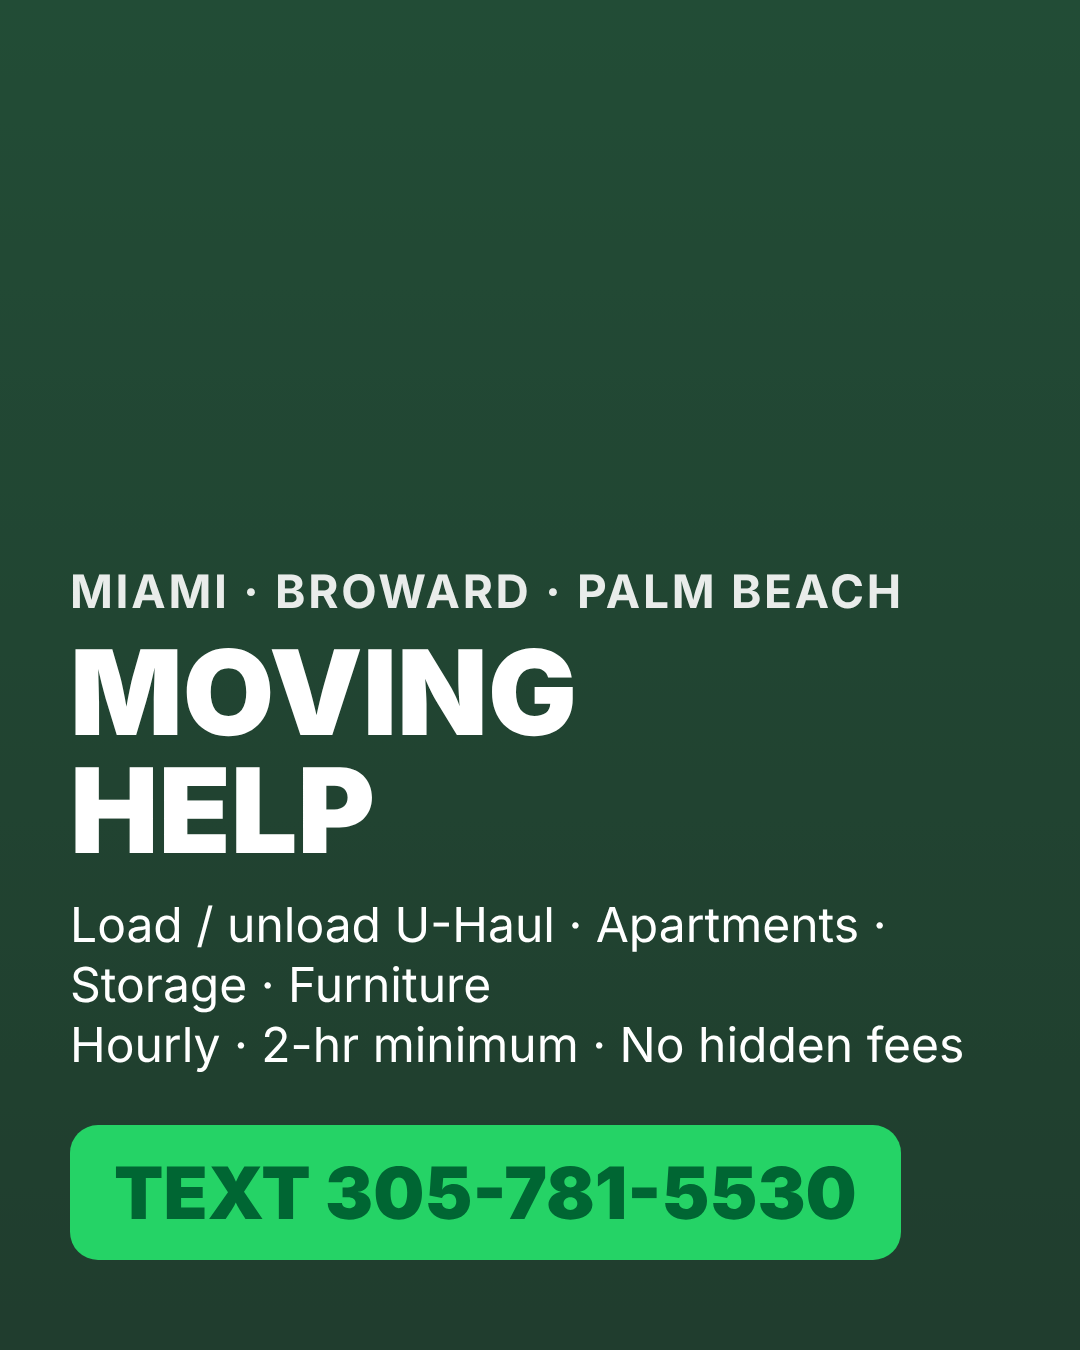
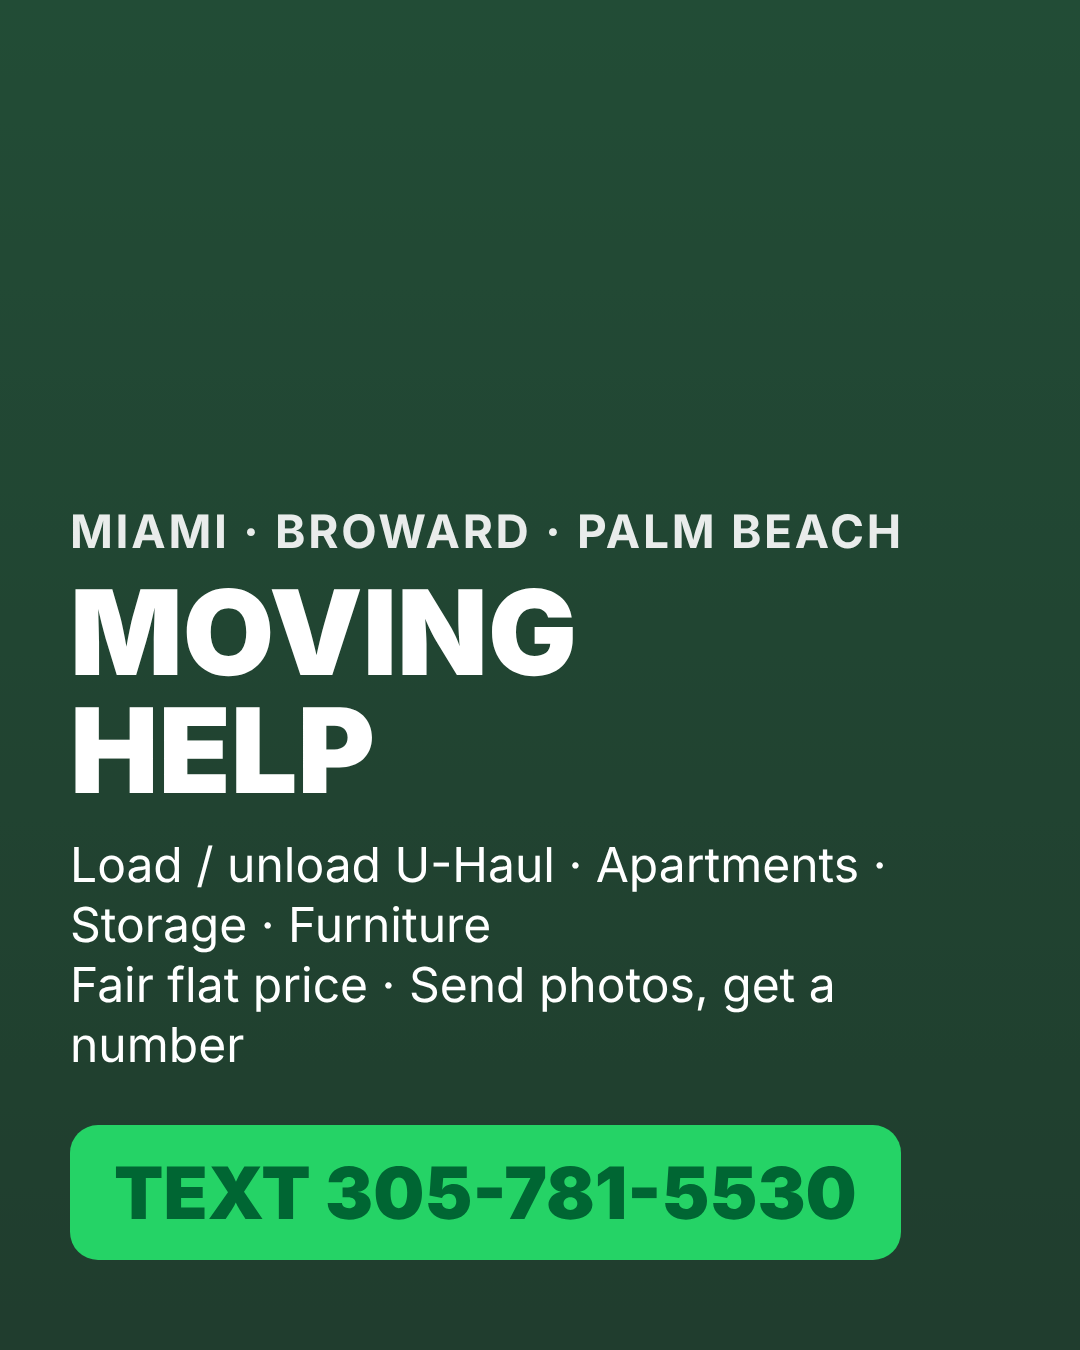
Switch all assets to flat per-job pricing, remove hourly minimums and conditions
Claude-Session: https://claude.ai/code/session_01KZFigDwFsvqjkRiDZJqNYt

Changed region(s): [[0.0611, 0.3733, 0.8861, 0.8089]]

diff --git a/moving-leads/03-landing-page/index.html b/moving-leads/03-landing-page/index.html
@@ -38,7 +38,7 @@
   <header>
     <div class="eyebrow">Miami-Dade · Broward · Palm Beach</div>
     <h1>Moving Help. Text me your date and zip — get a price fast.</h1>
-    <p class="sub">Loading &amp; unloading U-Haul trucks, apartment and house moving labor, storage units, furniture moving. Hourly rate, 2-hour minimum, no hidden fees.</p>
+    <p class="sub">Loading &amp; unloading U-Haul trucks, apartment and house moving labor, storage units, furniture moving. Send a few photos of what needs moving and get a fair, straight price for the whole job.</p>
   </header>
 
   <div class="cta">
@@ -68,7 +68,7 @@
     <h2>How it works</h2>
     <ol class="steps">
       <li><strong>Text or WhatsApp</strong> your zip code, date, and what needs moving (photos help).</li>
-      <li><strong>Get a straight price</strong> — hourly with a 2-hour minimum, nothing hidden.</li>
+      <li><strong>Get a fair price for the whole job</strong> after I see the items — no surprises.</li>
       <li><strong>I show up on time</strong> and treat your things like my own.</li>
     </ol>
   </section>
@@ -76,7 +76,7 @@
   <section class="card">
     <h2>Service area</h2>
     <p>Miami, Hialeah, Miami Beach, Hollywood, Pembroke Pines, Miramar, Fort Lauderdale, Pompano Beach, Boca Raton, Delray Beach, West Palm Beach and nearby.</p>
-    <p class="fine">Labor-only service. You provide the truck or container unless agreed otherwise. Final price confirmed by text before the job.</p>
+    <p class="fine">Labor-only service unless agreed otherwise. Price is agreed by text after I see the items, before the job starts.</p>
   </section>
 
   <footer>Text first for the fastest reply · 305-781-5530</footer>

diff --git a/moving-leads/03-landing-page/ad-image-template.html b/moving-leads/03-landing-page/ad-image-template.html
@@ -17,7 +17,7 @@ body{margin:0;background:#222}
   <div class="txt">
     <div class="k">MIAMI · BROWARD · PALM BEACH</div>
     <div class="h">MOVING<br>HELP</div>
-    <div class="s">Load / unload U-Haul · Apartments · Storage · Furniture<br>Hourly · 2-hr minimum · No hidden fees</div>
+    <div class="s">Load / unload U-Haul · Apartments · Storage · Furniture<br>Fair flat price · Send photos, get a number</div>
     <div class="p">TEXT 305-781-5530</div>
   </div>
 </div>

diff --git a/moving-leads/04-lead-tracker/build_tracker.py b/moving-leads/04-lead-tracker/build_tracker.py
@@ -12,8 +12,8 @@ wb = Workbook()
 # ---------- Leads ----------
 ws = wb.active; ws.title = "Leads"
 cols = ["Lead ID","Date received","Source","Customer name","Phone","Contact via","Service requested",
-        "Pickup location (zip/city)","Drop-off location","Move date","Hours est.","Rate $/hr",
-        "Est. job value $","Qualified? (Y/N)","Quote sent (date)","Status","Booked date",
+        "Pickup location (zip/city)","Drop-off location","Move date","Helpers","Photos received? (Y/N)",
+        "Quoted price $","Qualified? (Y/N)","Quote sent (date)","Status","Booked date",
         "Job done (date)","Revenue $","Review asked?","Referral source","Notes"]
 ws.append(cols)
 hdr = PatternFill("solid", fgColor="0F6B3A")
@@ -24,15 +24,14 @@ widths = [8,13,13,18,14,11,22,18,18,12,9,9,13,11,13,13,12,12,11,11,14,30]
 for i,w in enumerate(widths,1): ws.column_dimensions[get_column_letter(i)].width = w
 # Example row (delete when real leads arrive)
 ws.append(["L001",date(2026,10,17),"Craigslist","EXAMPLE – delete","305-000-0000","SMS","Unload U-Haul",
-           "33020 Hollywood","same",date(2026,10,25),3,95,"=K2*L2","Y",date(2026,10,17),"Quoted","","","","N","",""])
+           "33020 Hollywood","same",date(2026,10,25),1,"Y",150,"Y",date(2026,10,17),"Quoted","","","","N","",""])
 # Validation lists
 src = DataValidation(type="list", formula1='"Craigslist,Facebook group,Facebook ad,Facebook Marketplace,Nextdoor,Google,U-Haul Moving Help,TaskRabbit,Referral,Partner,Repeat,Other"', allow_blank=True)
 via = DataValidation(type="list", formula1='"SMS,WhatsApp,Call,Facebook DM,Email,Other"', allow_blank=True)
 yn = DataValidation(type="list", formula1='"Y,N"', allow_blank=True)
 status = DataValidation(type="list", formula1='"New,Replied,Quoted,Booked,Done,Lost,No response,Spam"', allow_blank=True)
-for dv,col in [(src,"C"),(via,"F"),(yn,"N"),(status,"P"),(yn,"T")]:
+for dv,col in [(src,"C"),(via,"F"),(yn,"L"),(yn,"N"),(status,"P"),(yn,"T")]:
     ws.add_data_validation(dv); dv.add(f"{col}2:{col}1000")
-for r in range(3,1001): ws[f"M{r}"] = f'=IF(AND(K{r}<>"",L{r}<>""),K{r}*L{r},"")'
 
 # ---------- Campaign Log ----------
 cl = wb.create_sheet("Campaign Log")

diff --git a/moving-leads/07-templates/customer-reply-templates.md b/moving-leads/07-templates/customer-reply-templates.md
@@ -4,7 +4,7 @@ Goal: reply within 5 minutes, get to a price in 2 messages, book in 3.
 ## T1 — First reply (new inquiry)
 ```
 Hi! Thanks for texting. Happy to help with your move. Quick questions so I can give you a straight price:
-1) Move date + preferred start time?
+1) Move date + preferred time?
 2) Pickup zip / city (and drop-off if any)?
 3) What's moving? (e.g. 1-BR apartment, 10 big items, storage unit)
 4) Stairs or elevator at each end? Which floor?
@@ -15,10 +15,9 @@ Photos help a lot 👍
 ## T2 — Quote
 ```
 Thanks! Here's the price:
-• [1 helper / 2 helpers] at $[RATE]/hr, 2-hour minimum = $[MIN] for the first 2 hours.
-• Estimated time for your job: about [X] hours → roughly $[EST].
-• Travel: [included / $__ flat] for [city].
-• Payment: cash, Zelle or Cash App when the job is done.
+• Based on your photos: $[PRICE] for the whole job, [1/2] helper(s).
+• That covers everything you listed — [summary]. If anything big is added on the day, we agree on it before I lift it.
+• Payment when the job is done: cash, Zelle or Cash App.
 Does [DATE] at [TIME] work? Reply YES and I'll lock it in.
 ```
 
@@ -36,7 +35,7 @@ Hi [NAME], last check on the [DATE] move. If you've found help already, no probl
 ```
 ✅ Booked: [DATE] at [TIME]
 📍 Address: [ADDRESS] (floor [X], [stairs/elevator])
-👷 [1/2] helper(s), $[RATE]/hr, 2-hr minimum
+👷 [1/2] helper(s), agreed price: $[PRICE] for the job
 💵 Payment at completion: cash / Zelle / Cash App
 I'll text you the day before to confirm. Please have the truck there at [TIME] and boxes packed and taped. Thanks!
 ```
@@ -63,13 +62,13 @@ Thanks for reaching out! That one is outside what I can take on ([reason: distan
 
 ## T10 — Price objection
 ```
-I understand. My rate covers careful handling — wrapping and stacking so nothing breaks. If budget is tight, we can reduce hours: you pack and stage everything by the door, I handle the heavy loading only. That usually cuts the time by about a third.
+I understand — tell me what works for you and let's see if we can meet in the middle. If you pack and stage everything by the door, it's less work and I can come down on the price.
 ```
 
 ## Customer FAQ (answer in your own words)
 - **Do you have a truck?** → Labor only; you rent the truck (U-Haul/Penske) and I load/unload it. [Change only if you confirm you have a truck.]
 - **Are you licensed/insured?** → Answer truthfully. Do not claim either unless you have the documents. If unsure, say: "I'm an independent moving helper; I'm careful and will confirm everything in writing by text."
-- **Minimum?** → 2 hours.
+- **How do you price?** → One fair price for the whole job after I see photos or the items. No hourly clock.
 - **What should I prepare?** → Boxes packed and taped, fragile items labeled, parking for the truck, elevator reserved if needed.
-- **Deposit?** → No deposit; pay on completion (your choice).
-- **Cancellations?** → Free up to 24 h before; same-day cancellation may be charged the 2-hour minimum (your choice).
+- **Deposit?** → No deposit; pay when the job is done.
+- **Cancellations?** → Just let me know as early as you can.

diff --git a/moving-leads/07-templates/pricing-and-quote-checklist.md b/moving-leads/07-templates/pricing-and-quote-checklist.md
@@ -1,16 +1,17 @@
-# Pricing Structure & Pre-Quote Checklist
+# Pricing Reference & Pre-Quote Checklist
+
+**Your rule: one flat price per job, decided after seeing the items. No hourly rate, no minimum, no extra conditions in the ads.** The table below is only a private reference so your flat quotes stay profitable.
 
 ## Suggested pricing (based on researched South Florida rates; adjust to your capacity)
 | Service | Price | Notes |
 |---|---|---|
-| 1 helper, labor only | **$45–$55/hr**, 2-hr min ($90–$110) | TaskRabbit Miami avg is $51/hr; stay near it |
-| 2 helpers, labor only | **$85–$110/hr**, 2-hr min | Market: $70–$120/hr for 2-person crews on U-Haul Moving Help |
-| Travel fee | $0 within 15 mi of base; $20–$40 beyond | State it in the quote, not after |
-| Stairs (3rd floor+, no elevator) | +$10–$15/hr | Say it up front |
+| 1 helper, labor only | market ≈ $45–$55 per hour of work | TaskRabbit Miami avg is $51/hr — use it to sanity-check your flat quote |
+| 2 helpers, labor only | market ≈ $85–$110 per hour of work | U-Haul Moving Help crews: $70–$120/hr |
+| Distance | fold into the flat price | Do not list as a separate fee |
+| Stairs / long carry | fold into the flat price | Ask about floors before quoting |
 | Heavy/specialty items (piano, safe, gym equipment) | Quote separately | Only if you can do it safely |
-| Same-day / after 8 pm | +$15/hr or $25 flat | Optional |
 
-Typical job values: unload 10-ft U-Haul (1-BR) 2 hrs ≈ $100–$200; 2-BR load+unload with 2 helpers 4 hrs ≈ $350–$450.
+Typical flat quotes to aim for: unload a 10-ft U-Haul (1-BR) ≈ $120–$200; 2-BR load+unload with 2 helpers ≈ $350–$450. Always quote after photos.
 
 ## Before quoting — ask or check
 - [ ] Date + start time (and flexibility)
@@ -20,7 +21,7 @@ Typical job values: unload 10-ft U-Haul (1-BR) 2 hrs ≈ $100–$200; 2-BR load+
 - [ ] Truck provided by customer? Size? Container (PODS/U-Box)?
 - [ ] Packing done? Need wrapping/blankets? Who supplies dolly/straps?
 - [ ] Number of helpers needed (you alone, or second person available?)
-- [ ] Payment method agreed (cash / Zelle / Cash App)
+- [ ] Payment method (cash / Zelle / Cash App) — paid when done
 - [ ] Anything regulated (household move across county lines — see research §6)
 
 ## Verify about YOUR setup before advertising (answer in README "Business facts")

diff --git a/moving-leads/README.md b/moving-leads/README.md
@@ -16,7 +16,7 @@
 | خطة اختبار إعلاني بـ $20 | `05-ad-test/20-dollar-test-plan.md` |
 | قائمة الحسابات والصلاحيات المطلوبة | `06-activation/account-connections-checklist.md` |
 | قوالب الرد على العملاء (10 قوالب + أسئلة شائعة) | `07-templates/customer-reply-templates.md` |
-| هيكل الأسعار + قائمة ما قبل التسعير | `07-templates/pricing-and-quote-checklist.md` |
+| مرجع أسعار خاص (سعر مقطوع لكل عمل بعد رؤية الأغراض) + قائمة ما قبل التسعير | `07-templates/pricing-and-quote-checklist.md` |
 | رسائل الشراكات (مسودات، لا تُرسل بدون موافقتك) | `07-templates/partnership-outreach.md` |
 
 ### 🟡 جاهز وينتظر موافقتك
@@ -32,6 +32,9 @@
 
 ### ⏭ الإجراء الأعلى أثراً الآن
 أرسل لي: **(1) الرمز البريدي، (2) شاحنة نعم/لا، (3) قرارك في المسألة القانونية، (4) "موافق" على خطة الـ $20.** بعدها تنشر إعلان Craigslist في 10 دقائق باستخدام النص الجاهز، وتفتح صفحة فيسبوك وتضغط إعلان الواتساب.
+
+## 💵 قاعدة التسعير
+سعر مقطوع واحد لكل عمل، يُحدد بعد رؤية الأغراض أو الصور. لا سعر بالساعة، لا حد أدنى، لا شروط في الإعلانات. الدفع بعد إنهاء العمل.
 
 ## 🔁 مسار العميل
 طلب محلي → إعلان → رسالة/واتساب (`?src=` يحدد المصدر) → محادثتك → عرض سعر (T2) → حجز (T5) → تنفيذ → تقييم وإحالة (T7) → تسجيل في `leads.xlsx`.

diff --git a/moving-leads/02-ads/community-and-nextdoor.md b/moving-leads/02-ads/community-and-nextdoor.md
@@ -5,7 +5,7 @@
 2. Ask the first 3 satisfied customers to leave a Nextdoor recommendation (template in 07-templates).
 3. Post (only where the neighborhood allows business posts, or via "Local Deals" ~ $3):
 ```
-Hi neighbors — I offer moving labor (load/unload U-Haul, furniture, storage units, apartment moves) across the tri-county area. Hourly, 2-hr minimum. Text or WhatsApp 305-781-5530 for a quick quote.
+Hi neighbors — I offer moving labor (load/unload U-Haul, furniture, storage units, apartment moves) across the tri-county area. Fair flat price per job. Text or WhatsApp 305-781-5530 with photos for a quick quote.
 ```
 
 ## Google Business Profile (free; set up after you decide on the registration question)
@@ -14,7 +14,7 @@ Hi neighbors — I offer moving labor (load/unload U-Haul, furniture, storage un
 - Service areas: Miami, Hialeah, Hollywood, Fort Lauderdale, Pembroke Pines, Miramar, Boca Raton, West Palm Beach.
 - Description (750 chars max):
 ```
-Moving labor across Miami-Dade, Broward and Palm Beach. Loading and unloading U-Haul and rental trucks, apartment and house moving labor, storage unit loading, furniture moving and rearranging. Honest hourly pricing with a 2-hour minimum. Text or WhatsApp 305-781-5530 for a fast quote.
+Moving labor across Miami-Dade, Broward and Palm Beach. Loading and unloading U-Haul and rental trucks, apartment and house moving labor, storage unit loading, furniture moving and rearranging. Fair flat price per job, agreed after seeing the items. Text or WhatsApp 305-781-5530 for a fast quote.
 ```
 - Do **not** add a storefront, fake reviews, or "licensed & insured" unless true. Verification may require a short video showing equipment and proof of location.
 

diff --git a/moving-leads/02-ads/facebook-posts.md b/moving-leads/02-ads/facebook-posts.md
@@ -19,7 +19,7 @@ Renting a U-Haul or just need muscle? I load, unload, and move furniture:
 ✅ U-Haul / rental truck loading & unloading
 ✅ Apartment & house moves (stairs OK)
 ✅ Storage units, heavy items, furniture rearranging
-Hourly rate, 2-hr minimum, no hidden fees.
+Fair flat price per job – send photos, get a number.
 📲 TEXT or WhatsApp 305-781-5530 with your date + zip code → fast quote.
 ```
 
@@ -31,7 +31,7 @@ I do moving labor (load/unload, furniture, storage) in the tri-county area. Text
 ## 4. Marketplace listing (free)
 - Marketplace → Create listing → **Item for sale** is wrong; use the **"Services"** flow if available in your region, otherwise skip Marketplace and use groups.
 - Title: `Moving Help – Load/Unload, Apartments, Storage – Text 305-781-5530`
-- Price: `$45` (shown as "starting at"; explain hourly in description)
+- Price: leave blank or `$0` and write "Flat price per job – send photos" in the description
 - Description: paste Angle 1 text above.
 
 ## 5. Paid ad creative — "Send WhatsApp message" objective ($10 test; see 05-ad-test)
@@ -39,7 +39,7 @@ I do moving labor (load/unload, furniture, storage) in the tri-county area. Text
 ```
 Renting a U-Haul this week? Don't do the heavy lifting alone.
 Moving labor in Miami-Dade, Broward & Palm Beach — loading, unloading,
-furniture, storage units. Hourly rate, 2-hr minimum, no hidden fees.
+furniture, storage units. Fair flat price for the whole job – send photos, get a number.
 Tap to WhatsApp me your date + zip code for a quick quote. 💪
 ```
 **Headline:** `Moving Help – Text for a Fast Quote`

diff --git a/moving-leads/02-ads/craigslist-ads.md b/moving-leads/02-ads/craigslist-ads.md
@@ -27,11 +27,11 @@ Miami-Dade, Broward and Palm Beach:
 HOW IT WORKS
 1. TEXT or WhatsApp 305-781-5530 with: your zip code, date, and what needs
    moving (a few photos help).
-2. You get a straight price – no hidden fees.
+2. You get a fair price for the whole job after I see the items.
 3. I show up on time and get it done.
 
-Hourly rates with a 2-hour minimum. Weekend and same-week availability
-when open. Serious, punctual, respectful of your belongings.
+Fair flat price for the whole job – you tell me what you have, I give you a
+number. Flexible on dates. Serious, punctual, respectful of your belongings.
 
 TEXT / WhatsApp: 305-781-5530
 Please text instead of calling – I reply fast.
@@ -55,7 +55,7 @@ shifts on the road.
 • Load-only, unload-only, or both ends
 • Apartments, houses, storage units
 • Heavy items: sofas, dressers, mattresses, washers, dryers
-• 2-hour minimum, clear hourly price, no surprises
+• Fair flat price per job – send photos, get a number
 
 Text or WhatsApp 305-781-5530 with your date and zip code for a quick quote.
 ```
@@ -76,7 +76,7 @@ STRONG, CAREFUL HELP FOR THE HEAVY STUFF
 • Carry deliveries upstairs (appliances, mattresses, gym equipment)
 • Help assembling/disassembling beds and large furniture
 
-Serving Miami-Dade, Broward and Palm Beach. Hourly, 2-hour minimum.
+Serving Miami-Dade, Broward and Palm Beach. Flat price per job – send photos.
 Text or WhatsApp 305-781-5530 — tell me what, where and when.
 ```
 

diff --git a/moving-leads/06-activation/account-connections-checklist.md b/moving-leads/06-activation/account-connections-checklist.md
@@ -21,7 +21,7 @@ Legend: ✅ done by Claude · 🟡 ready, needs your approval · 🔴 needs your
 | Nextdoor | 🔴 | Create business page, paste description | 10 min |
 | Google Business Profile | 🔴 ⚪ | After D4; service-area setup, hide address, video verification | 20 min + wait |
 | U-Haul Moving Help® | 🔴 | Apply as service provider at movinghelp.com / Moving Helper app (terms + background check) | 20 min + review |
-| TaskRabbit | 🔴 ⚪ | Tasker sign-up, background check, set rate ~$50/hr | 20 min + review |
+| TaskRabbit | 🔴 ⚪ | Tasker sign-up, background check, set a rate (platform requires hourly; ~$50/hr is market) | 20 min + review |
 | Partners | 🟡 drafts ready | Approve messages; you send/walk in | 1 hr/week |
 
 ## Integrations I could NOT set up (and why)

diff --git a/moving-leads/07-templates/partnership-outreach.md b/moving-leads/07-templates/partnership-outreach.md
@@ -17,7 +17,7 @@ Leave 10 simple cards (name, "Moving Help – Load/Unload/Storage", phone, "Text
 ```
 Subject: Moving help for your residents (move-in days)
 
-Hi [NAME], I'm [YOUR NAME], an independent moving helper in [CITY]. I load/unload trucks, carry furniture and help residents move in and out — on their schedule, hourly with a 2-hour minimum.
+Hi [NAME], I'm [YOUR NAME], an independent moving helper in [CITY]. I load/unload trucks, carry furniture and help residents move in and out — on their schedule, with one fair price per job.
 If it helps, I'd be glad to be a contact you can pass to residents on move-in/move-out days. Text or WhatsApp is best: 305-781-5530.
 Thanks for your time,
 [YOUR NAME]
